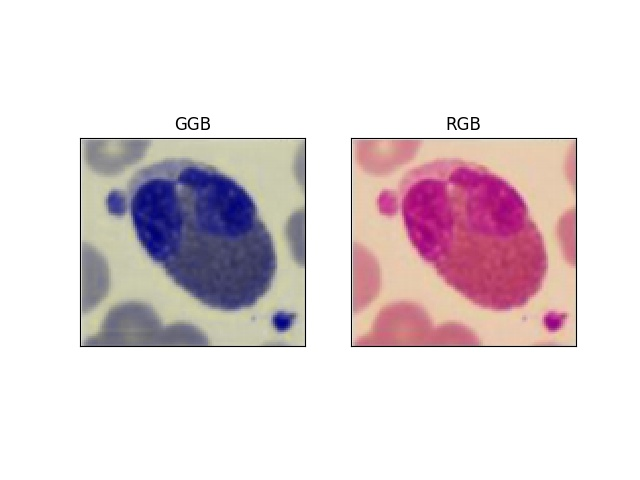
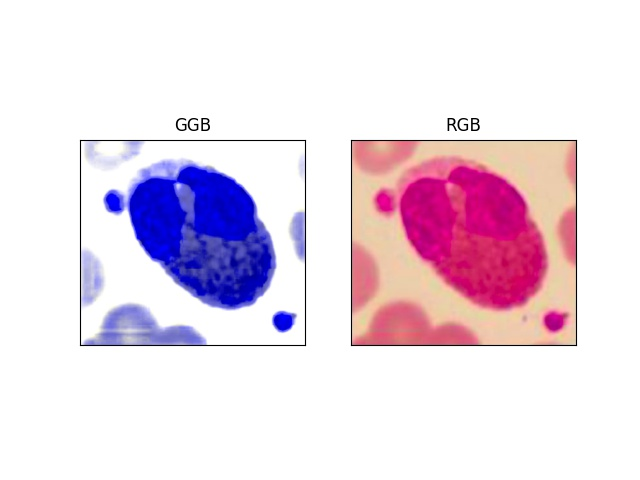
update fix

diff --git a/ggb.py b/ggb.py
@@ -4,73 +4,30 @@ import cv2
 import numpy as np
 from matplotlib import pyplot as plt
 import argparse
-import bisect
 import math
-
-def imadjust(src, vin=[0,255], vout=(0,255), tol=0.001):
-    # src : input one-layer image (numpy array)
-    # tol : tolerance, from 0 to 100.
-    # vin  : src image bounds
-    # vout : dst image bounds
-    # return : output img
-
-    dst = src.copy()
-    tol = max(0, min(100, tol))
-
-    if tol > 0:
-        # Compute in and out limits
-        # Histogram
-        hist = np.zeros(256, dtype=np.int)
-        for r in range(src.shape[0]):
-            for c in range(src.shape[1]):
-                hist[src[r,c]] += 1
-        # Cumulative histogram
-        cum = hist.copy()
-        for i in range(1, len(hist)):
-            cum[i] = cum[i - 1] + hist[i]
-
-        # Compute bounds
-        total = src.shape[0] * src.shape[1]
-        low_bound = total * tol / 100
-        upp_bound = total * (100 - tol) / 100
-        vin[0] = bisect.bisect_left(cum, low_bound)
-        #print vin[0]
-        vin[1] = bisect.bisect_left(cum, upp_bound)
-        #print vin[1]
-
-    # Stretching
-    scale = (vout[1] - vout[0]) / (vin[1] - vin[0])
-    for r in range(dst.shape[0]):
-        for c in range(dst.shape[1]):
-            vs = max(src[r,c] - vin[0], 0)
-            vd = min(int(vs * scale + 0.5) + vout[0], vout[1])
-            dst[r,c] = vd
-    return dst
-
-def max_min(src):
-    row = src.shape[0]
-    col = src.shape[1]
-    pmin = 255
-    pmax = 0
-    for r in range(0,row):
-        for c in range(0, col):
-            pmin = min(pmin, src[r,c])
-            pmax = max(pmax, src[r,c])
-    print pmax
-    print pmin
-    return pmax, pmin
 
 def ggb():
     global parser
     args = parser.parse_args()
     bgr = cv2.imread(args.input)
-    b,g,r = cv2.split(bgr)
     rgb = cv2.cvtColor(bgr, cv2.COLOR_BGR2RGB)
-    pmax, pmin = max_min(g)
-    _g = imadjust(g, vin=[pmin, pmax])
-    ggb = cv2.merge((_g,_g,b))
+    b_, g_, _ = cv2.split(bgr)
+    g_ = cv2.equalizeHist(g_)
+    b_ = b_.astype('float32')
+    g_ = g_.astype('float32')
+    mean = np.mean(b_)
+    b_ /= (mean + 1.0)
+    mean = np.mean(g_)
+    g_ /= (mean + 1.0)
+    b_ = np.clip(b_, 0, 1)
+    g_ = np.clip(g_, 0, 1)
+    b_ *= 255.0
+    g_ *= 255.0
+    ggb = cv2.merge((b_,g_,g_))
+    cv2.imwrite("GGB.jpg",ggb)
+    ggb = cv2.merge((g_,g_,b_))
     plt.subplot(1,2,1)
-    plt.imshow(ggb)
+    plt.imshow(ggb.astype('uint8'))
     plt.title("GGB")
     plt.xticks([])
     plt.yticks([])
@@ -85,5 +42,5 @@ def ggb():
 if __name__ == '__main__':
     global parser   
     parser = argparse.ArgumentParser(description='Code for Changing RGB Image to GGB Image')
-    parser.add_argument('--input', help='Path to input image', default='leukocytes.png')
+    parser.add_argument('--input', help='Path to input image', default='img/leukocytes.png')
     ggb()

diff --git a/README.md b/README.md
@@ -16,8 +16,8 @@ $ python ggb.py --input <directory-to-your-image>
 ### Leukocytes
 ![alt text](img/GGB_RGB_LEUKOCYTES.jpg)
 
-### Chicken
-![alt text](img/GGB_RGB_CHICKEN.jpg)
+### Fundus
+![alt text](img/GGB_RGB_FUNDUS.jpg)
 
 ### Car
 ![alt text](img/GGB_RGB_TESLA.jpg)
